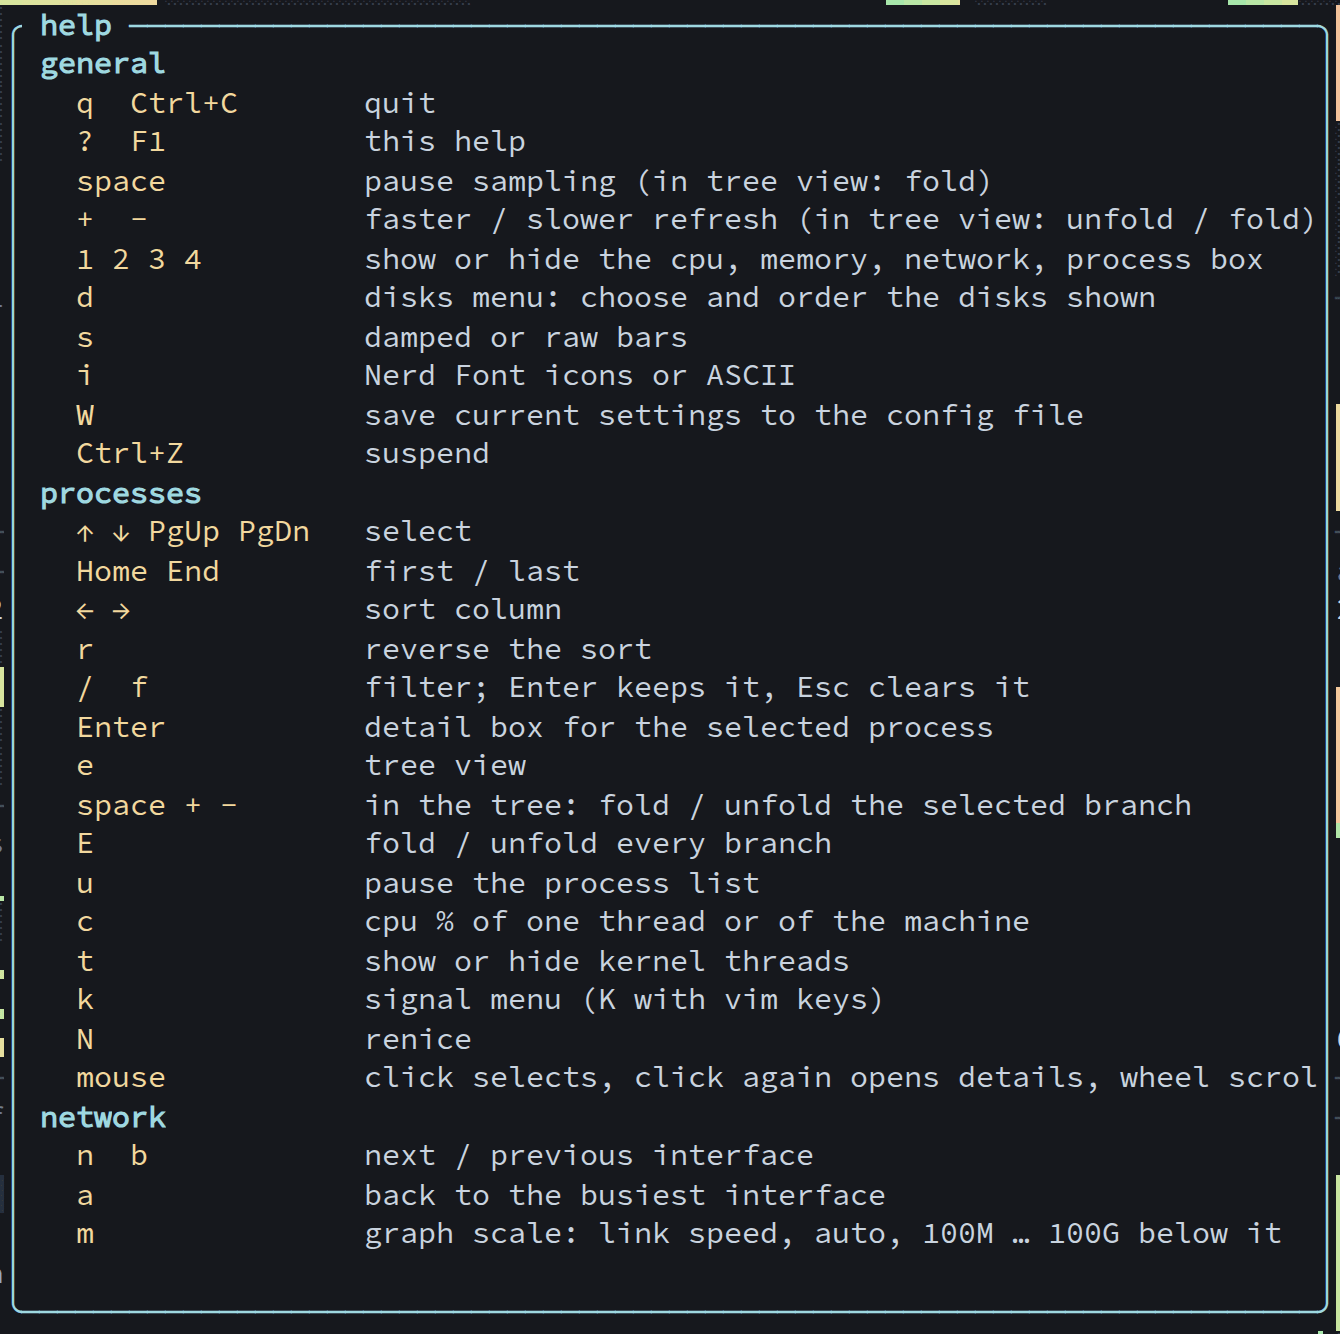
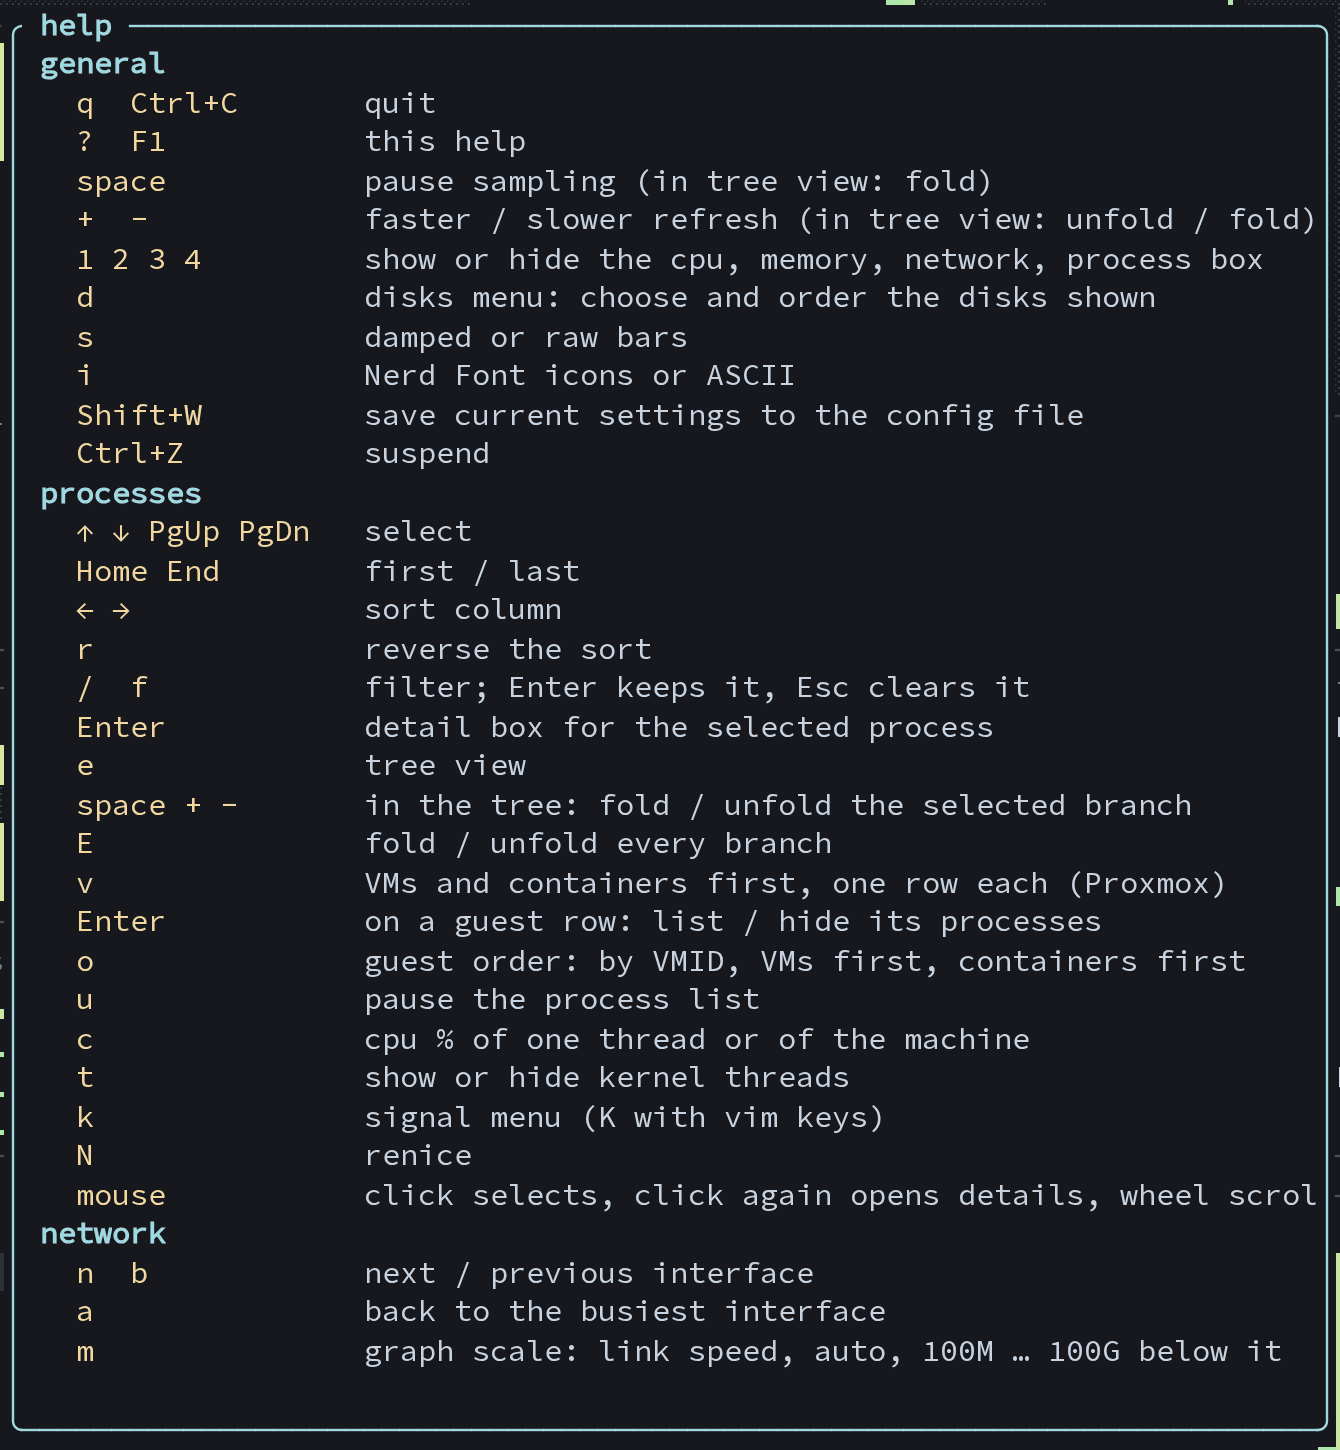
README: screenshots and GIFs from a real Proxmox VE host
New captures from a 44-thread Proxmox VE host with its own VMs and
containers, four ZFS pools and a 10 Gbit/s port, under a few minutes of
extra load. The host name, CPU model number, pool names, website names
and one file path were replaced cell for cell after capture.

The README now opens with a live GIF and the one-line install command.
New: a GIF of the guests view, a guest expanded and the tree, plus
still images of the guests view and an expanded guest. Captions that
described the old demonstration VM are updated.

diff --git a/README.md b/README.md
@@ -6,13 +6,23 @@
 [![Rust 1.88 or later](https://img.shields.io/badge/rust-1.88%2B-orange)](#11-development)
 ![Platform: Linux x86-64](https://img.shields.io/badge/platform-Linux%20x86--64-lightgrey)
 
+![istop live on a 44-thread Proxmox VE host under load, then the guests view and the tree, in real time](docs/images/istop-live.gif)
+
+**Install** — on any x86-64 Linux, one command installs the latest release (`.deb`, `.rpm` or a
+static binary, checked against the release's `SHA256SUMS`):
+
+```sh
+sh -c "$(curl -fsSL https://raw.githubusercontent.com/GladTechInfo/istop/main/install.sh)"
+```
+
+Then run `istop`; `q` quits and `?` lists every key. More in [Quick Start](#4-quick-start) and
+[Installation](#5-installation).
+
 **A terminal system monitor for Linux: CPU, memory, disks, network and processes in one screen.**
 It labels every process with the Proxmox container or VM, Docker or Podman container it runs in,
 shows ZFS pools and the ARC the way ZFS counts them, and scales network graphs to the port's link
 speed. It is the system-wide companion to [igtop](https://github.com/GladTechInfo/igtop) (GPUs) and
 [iztop](https://github.com/GladTechInfo/iztop) (ZFS pools), and shares their look.
-
-![istop on a 22-thread machine running demonstration workloads](docs/images/istop-interface-annotated.png)
 
 ## Contents
 
@@ -85,12 +95,12 @@ changes your defaults by accident.
 
 ## 3. Screenshots
 
-All screenshots are genuine captures of istop. To keep them free of private data, istop ran in its
-own PID, host-name and cgroup namespaces (host name `demo`) on a virtual machine, alongside
-demonstration workloads — `xz`, `yes`, `sha256sum`, a small web server, a download and disk copies
-— running as the `nobody`, `www-data` and `daemon` users, and three small demonstration ZFS pools
-(`backup`, `fast`, `tank`). Nothing has been edited. Because the machine is a VM, there is no CPU
-temperature, power or clock ceiling to show.
+All screenshots and animations are genuine captures of istop on a Proxmox VE host — a 44-thread
+Xeon with 252 GiB of memory, four ZFS pools, a 10 Gbit/s port, and its own VMs and containers —
+during a few minutes of extra load: six `xz` processes, a download and a large file read from a
+pool. To keep the host private, its name, the CPU's model number, pool names, three website names
+and one file path were replaced after capture (the host appears as `node1`), cell for cell; every
+figure, colour and layout is as istop drew it.
 
 **The whole screen, with each area numbered** — explained in
 [Understanding the Interface](#8-understanding-the-interface).
@@ -100,6 +110,13 @@ temperature, power or clock ceiling to show.
 **The detail box** (`Enter`) for the busiest process, above the process list.
 
 ![istop: process detail box](docs/images/istop-detail.png)
+
+**Guests first** (`v`) — one row per Proxmox VM and container, its processes added together, in
+VMID order; `Enter` on a guest row lists its processes, and `e` switches to the tree.
+
+![istop: guests view, a guest expanded, then the tree](docs/images/istop-guests-tree.gif)
+
+![istop: guests view](docs/images/istop-guests.png)
 
 **Tree view** (`e`) — each process under its parent.
 
@@ -383,7 +400,13 @@ processes. Press `?` at any time for the list of keys, and `q` to quit. A larger
 
 ![Filter typed in the process box title](docs/images/istop-filter.png)
 
-*After `/`, `s`, `h`, `Enter`: the list shows only processes matching `sh` (1).*
+*After `/`, `x`, `z`, `Enter`: the list shows only processes matching `xz` (1) — the busy `xz`
+processes and the `timeout` commands that started them.*
+
+![A guest row expanded](docs/images/istop-guests-expanded.png)
+
+*After `v`, then `Enter` on the first guest row: the container's processes are listed beneath it,
+with their users by name from the container's own user list.*
 
 ### Troubleshooting
 
@@ -482,7 +505,7 @@ priority), from −20 (highest) to 19 (lowest); `Enter` applies it and any other
 
 ![Header confirming the network scale](docs/images/istop-netscale-message.png)
 
-*After `m` on an interface that reports no speed: the scale is now a fixed 100 Mbit/s.*
+*After `m` on a 10 Gbit/s port: the scale steps from the link speed to `auto`.*
 
 <a id="disks-menu"></a>
 ### Disks menu
@@ -627,8 +650,8 @@ speed (bridges, most virtual NICs) are drawn automatically under `link`.
 
 ![CPU % of the whole machine](docs/images/istop-per-machine.png)
 
-*After `c`: the title reads `cpu % of the machine`, and `xz`'s four busy threads read about 18 %
-on this 22-thread machine instead of 400 %.*
+*After `c`: the title reads `cpu % of the machine`, and each single-threaded `xz` process reads
+about 2.3 % of this 44-thread machine instead of 100 %.*
 
 ### The detail box
 
